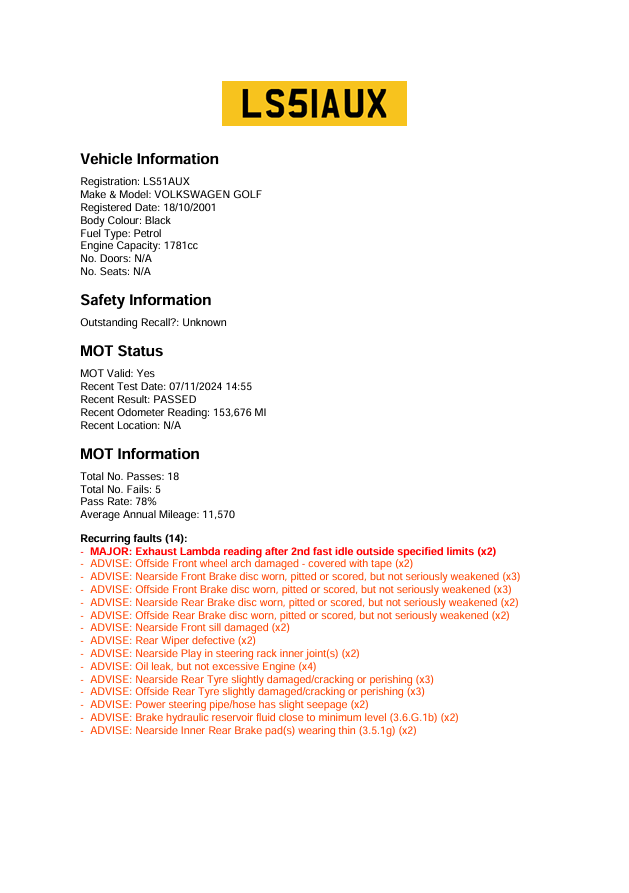
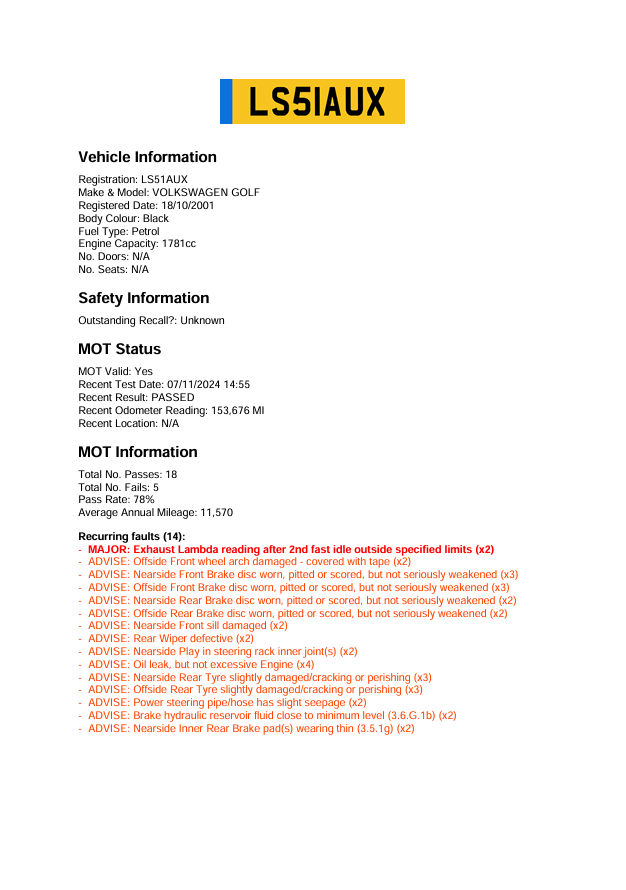
Updated registatraion plate to be more realistic and visually appealing

diff --git a/image.py b/image.py
@@ -8,14 +8,24 @@ base_dir = Path(__file__).resolve().parent
 static_dir = base_dir / "static"
 
 img = Image.new("RGB", (700, 170), (247, 195, 30, 255))
+img2 = Image.new("RGB", (50, 170), (13, 113, 219, 255))
 font = ImageFont.truetype(static_dir / "fonts/UKNumberPlate.ttf", 160)
 
+
 def create_image(reg: str) -> Image:
-    width, height = img.size
+    """Creates a visual registration plate"""
+    combined_width = img.width + img2.width
+    combined_height = max(img.height, img2.height)
 
-    draw = ImageDraw.Draw(img)
-    draw.text(xy=(width / 2, height / 2), text=reg.upper(), fill="#000000", font=font, anchor="mm", align="center")
+    combined_img = Image.new("RGB", (combined_width, combined_height))
 
-    return img
+    combined_img.paste(img2, (0, 0))
+    combined_img.paste(img, (img2.width, 0))
+    
+    draw = ImageDraw.Draw(combined_img)
+    # + 20 pixels for a hacky fix to keep the text centered due to the offset of img2
+    draw.text(xy=((combined_width / 2) + 20, combined_height / 2), text=reg.upper(), fill="#000000", font=font, anchor="mm", align="center")
+
+    return combined_img
 
 
